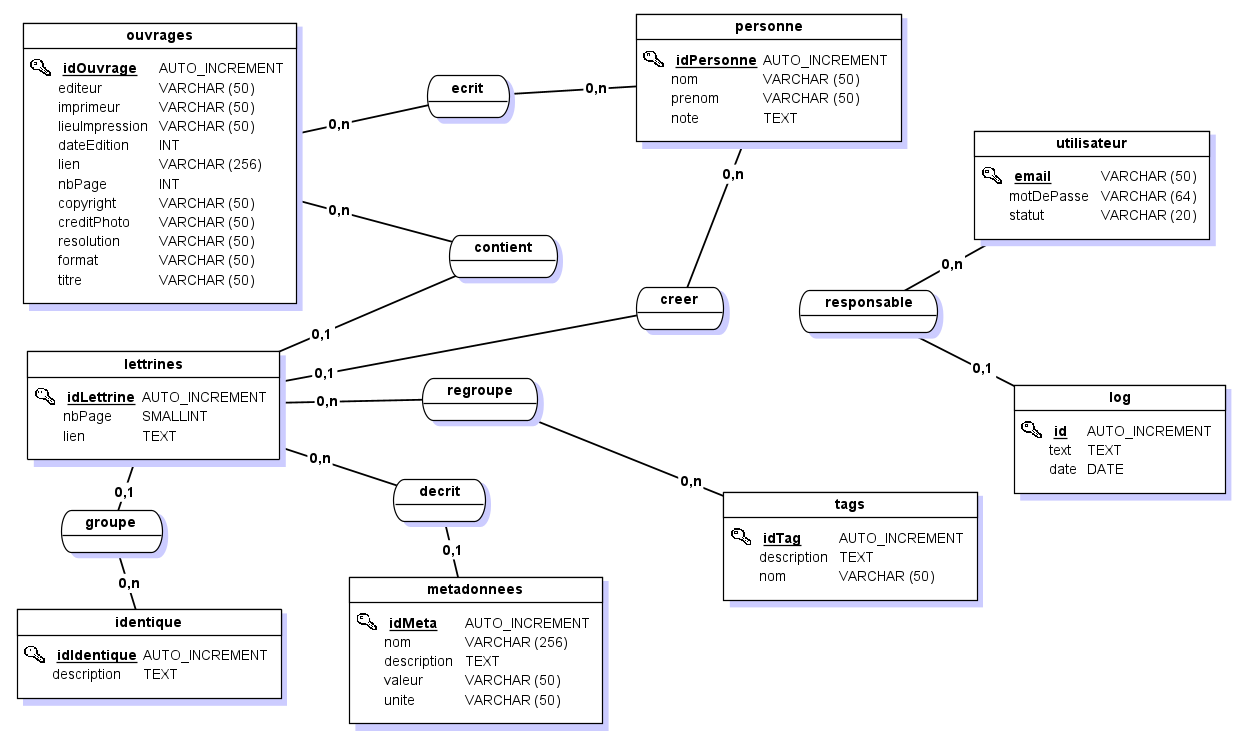
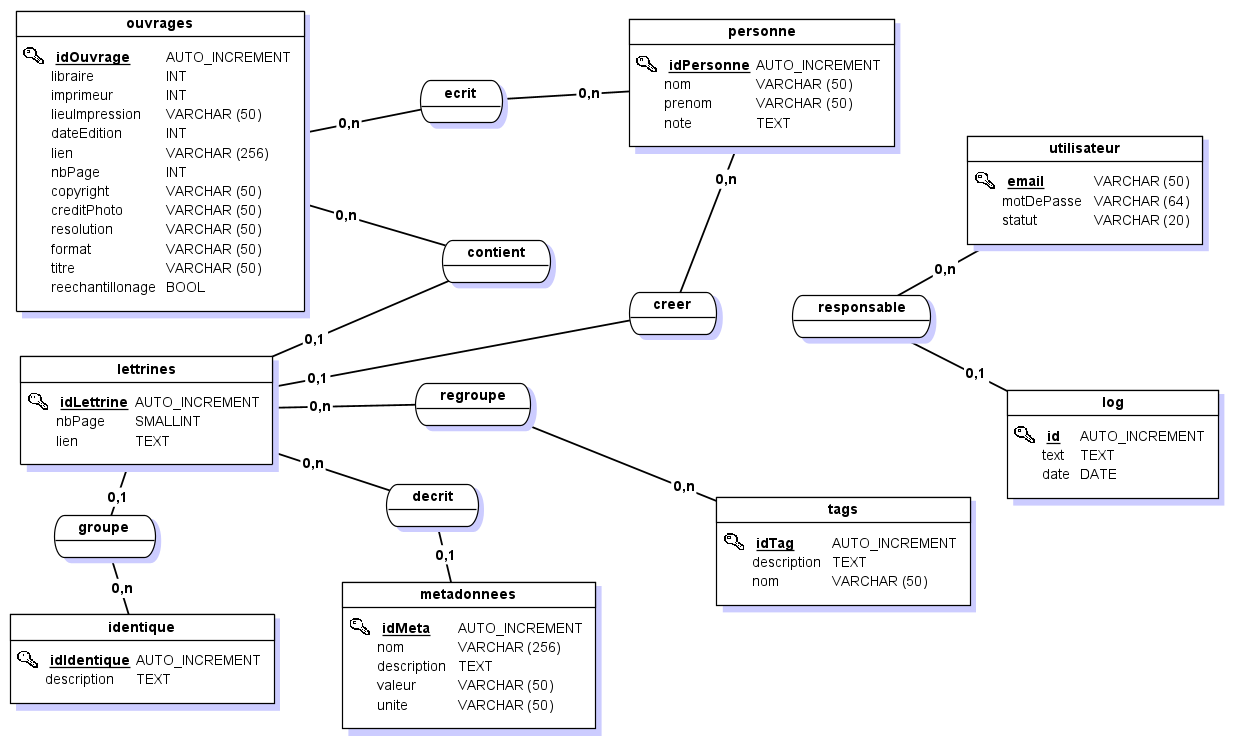
Modification de la BD editeur -> libraire, et autres

diff --git a/code/CleanProject/src/main/java/Whole/ccmsPackage/Ouvrage.java b/code/CleanProject/src/main/java/Whole/ccmsPackage/Ouvrage.java
@@ -7,8 +7,8 @@ import java.util.ArrayList;
  */
 public class Ouvrage implements CCMS<Ouvrage> {
 	private int id;
-	private String editeur;
-	private String imprimeur;
+	private Personne editeur;
+	private Personne imprimeur;
 	private String lieuImpression;
 	private int dateEdition;
 	private String lien;
@@ -54,7 +54,7 @@ public class Ouvrage implements CCMS<Ouvrage> {
      * @param titre String
      * @param auteurs ArrayList<Personne>
      */
-    public Ouvrage(int id, String editeur, String imprimeur, String lieuImpression, int dateEdition, String lien,
+    public Ouvrage(int id, Personne editeur, Personne imprimeur, String lieuImpression, int dateEdition, String lien,
 			int nbPage, String copyright, String creditPhoto, String resolution, String format, String titre,
 			ArrayList<Personne> personnes) {
 		this.id = id;
@@ -94,7 +94,7 @@ public class Ouvrage implements CCMS<Ouvrage> {
 	 * Renvoie l'éditeur de l'ouvrage.
 	 * @return editeur
 	 */
-	public String getEditeur() {
+	public Personne getEditeur() {
 		return editeur;
 	}
 
@@ -102,7 +102,7 @@ public class Ouvrage implements CCMS<Ouvrage> {
 	 * Change l'éditeur de l'ouvrage par l'éditeur passé en paramètre.
 	 * @param editeur éditeur de l'ouvrage
 	 */
-	public void setEditeur(String editeur) {
+	public void setEditeur(Personne editeur) {
 		this.editeur = editeur;
 	}
 
@@ -110,7 +110,7 @@ public class Ouvrage implements CCMS<Ouvrage> {
 	 * Renvoie l'imprimeur de l'ouvrage.
 	 * @return imprimeur
 	 */
-	public String getImprimeur() {
+	public Personne getImprimeur() {
 		return imprimeur;
 	}
 
@@ -118,7 +118,7 @@ public class Ouvrage implements CCMS<Ouvrage> {
 	 * Change l'imprimeur de l'ouvrage par l'imprimeur passé en paramètre.
 	 * @param imprimeur imprimeur de l'ouvrage
 	 */
-	public void setImprimeur(String imprimeur) {
+	public void setImprimeur(Personne imprimeur) {
 		this.imprimeur = imprimeur;
 	}
 
